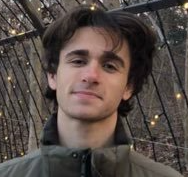
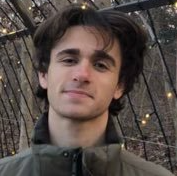
Add more people

diff --git a/people.html b/people.html
@@ -166,16 +166,17 @@
 								</p>
 							</article>	
 
-
 							<article class="col-4 col-12-mobile special">
-								<a href="https://eliapizzati.github.io/" class="image featured"><img src="images/people/Elia.jpg" alt="" /></a>
+								<a href="https://alexgarcia623.github.io/" class="image featured"><img src="images/people/AlexGarcia.jpeg" alt="" /></a>
 								<header>
-									<h3><a href="https://eliapizzati.github.io/">Elia Pizatti</a></h3>
+									<h3><a href="https://alexgarcia623.github.io/">Alex Garcia</a></h3>
 								</header>
 								<p>
-									Elia studies how supermassive black holes grew and evolved by interpreting observations of quasars across cosmic history.
+									Alex is interested in quantifying systematic uncertainties in the feedback, dark matter, and numerical implementations cosmological simulations using machine learning methods.
+
 								</p>
-							</article>
+							</article>	
+
 
 
 						</div>
@@ -243,6 +244,16 @@
 								</p>
 							</article>
 			
+							<article class="col-4 col-12-mobile special">
+								<a href="https://eliapizzati.github.io/" class="image featured"><img src="images/people/Elia.jpg" alt="" /></a>
+								<header>
+									<h3><a href="https://eliapizzati.github.io/">Elia Pizatti</a></h3>
+								</header>
+								<p>
+									Elia studies how supermassive black holes grew and evolved by interpreting observations of quasars across cosmic history.
+								</p>
+							</article>
+
 						</div>
 
 
